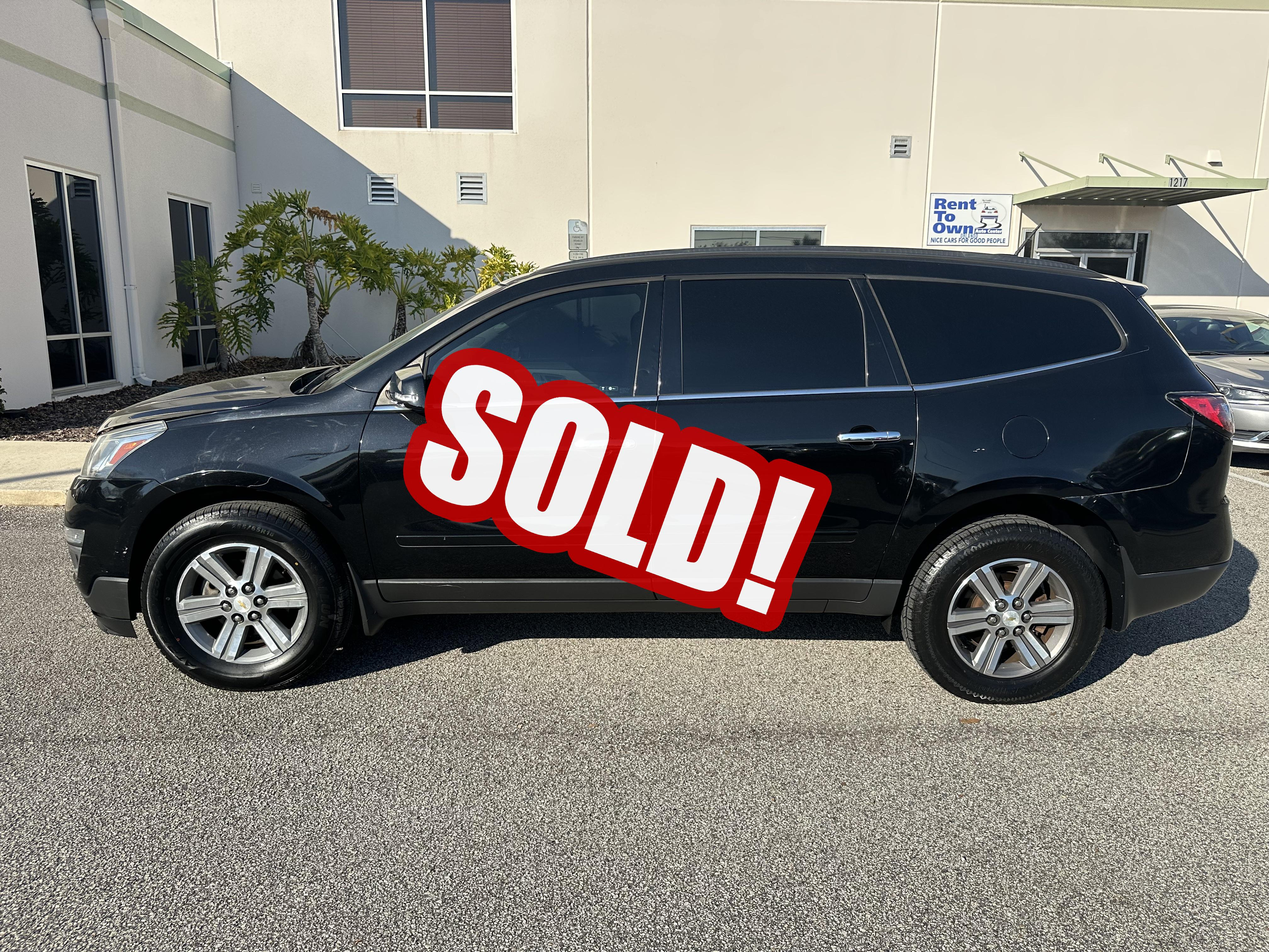
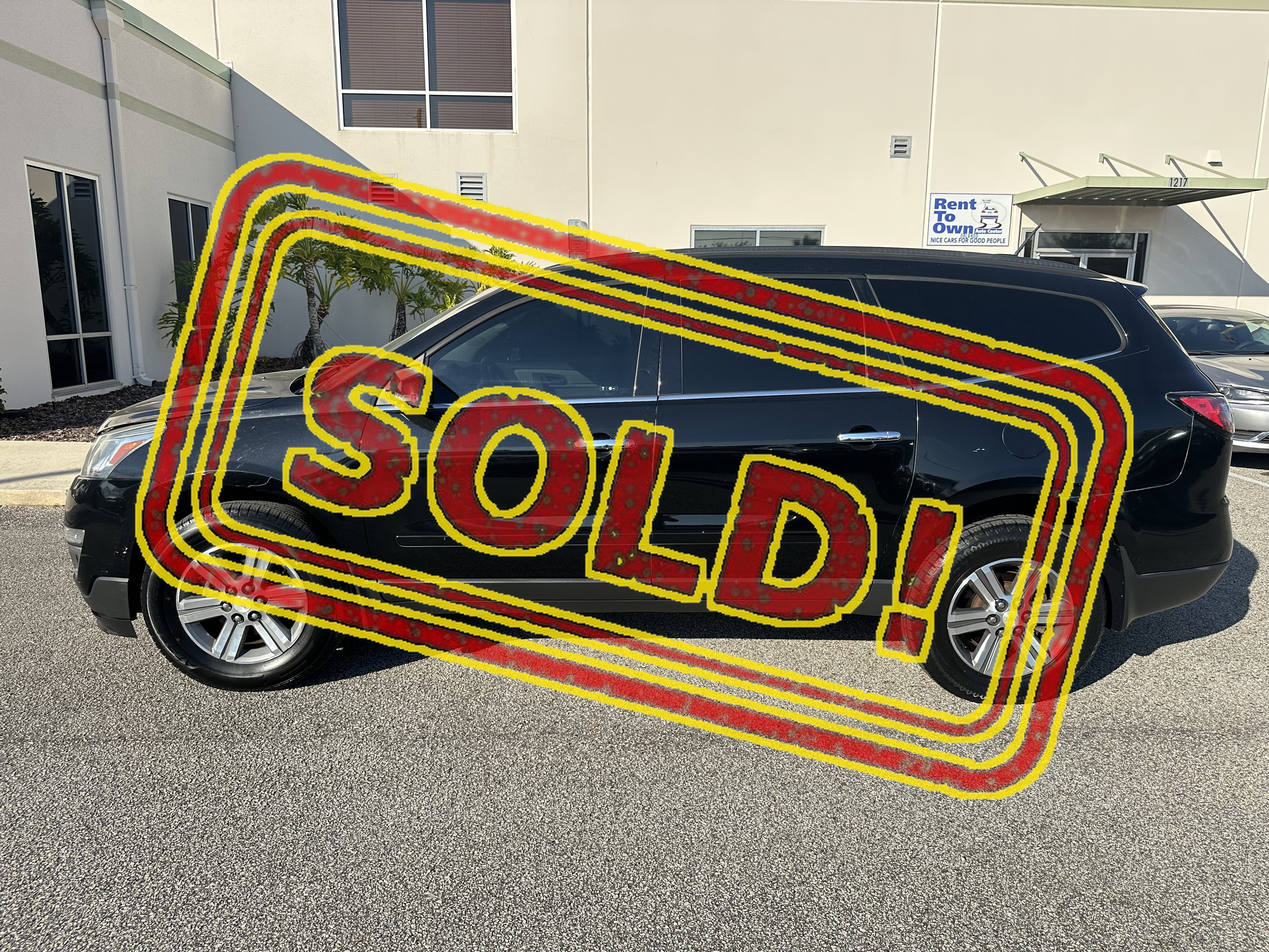
SOLDRTO: mark RTO9035 as sold

Changed region(s): [[0.0938, 0.1554, 0.9062, 0.8393]]

diff --git a/orlando.html b/orlando.html
@@ -685,10 +685,10 @@
             <!-- start of car -->
             <div class="col-md-4 mb-4">
               <div class="card">
-                <img src="./images/cars/9035.JPEG" class="card-img-top" alt="..." />
+                <img src="./images/cars/sold/9035.JPEG" class="card-img-top" alt="..." />
                       <div class="card-body">
                   <h5 class="card-title">2017 Chevy Traverse 7 Passanger</h5>
-                  <p class="card-text">RTO9035  <span style="color:red ">RTO with $900 Down Or Buy Cash $6995</span>  </p>
+                  <p class="card-text">RTO9035 <span style="color:red "> SOLD! </span> </p>
                   <!-- <a href="#" class="btn btn-primary">View Details</a>  -->
                 </div>
               </div>
